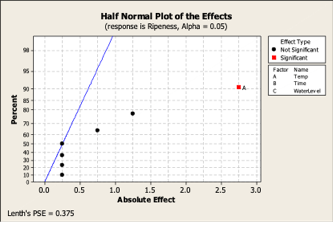
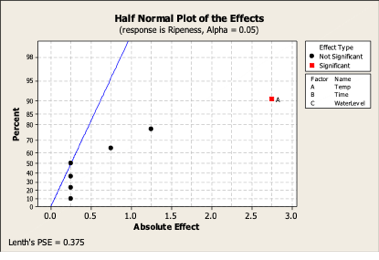
edit effect pic

diff --git a/Boiled-eggs/Boiled_Eaggs.md b/Boiled-eggs/Boiled_Eaggs.md
@@ -59,6 +59,7 @@ Result table
  - If the analysis results from the 2<sup>k</sup> factorial method shows two or more factors, use the experimental point(treatment) increase in 2<sup>k</sup> factorial.
  - If there is only 1, use the One-Way ANOVA design.
 
+![EffectGraph](https://raw.githubusercontent.com/TawanTan/Data-Science-Portfolio/master/Boiled-eggs/EffectGraph.png "title-1") ![EffectChart](https://raw.githubusercontent.com/TawanTan/Data-Science-Portfolio/master/Boiled-eggs/EffectChart.png "title-1")
 
 
 
